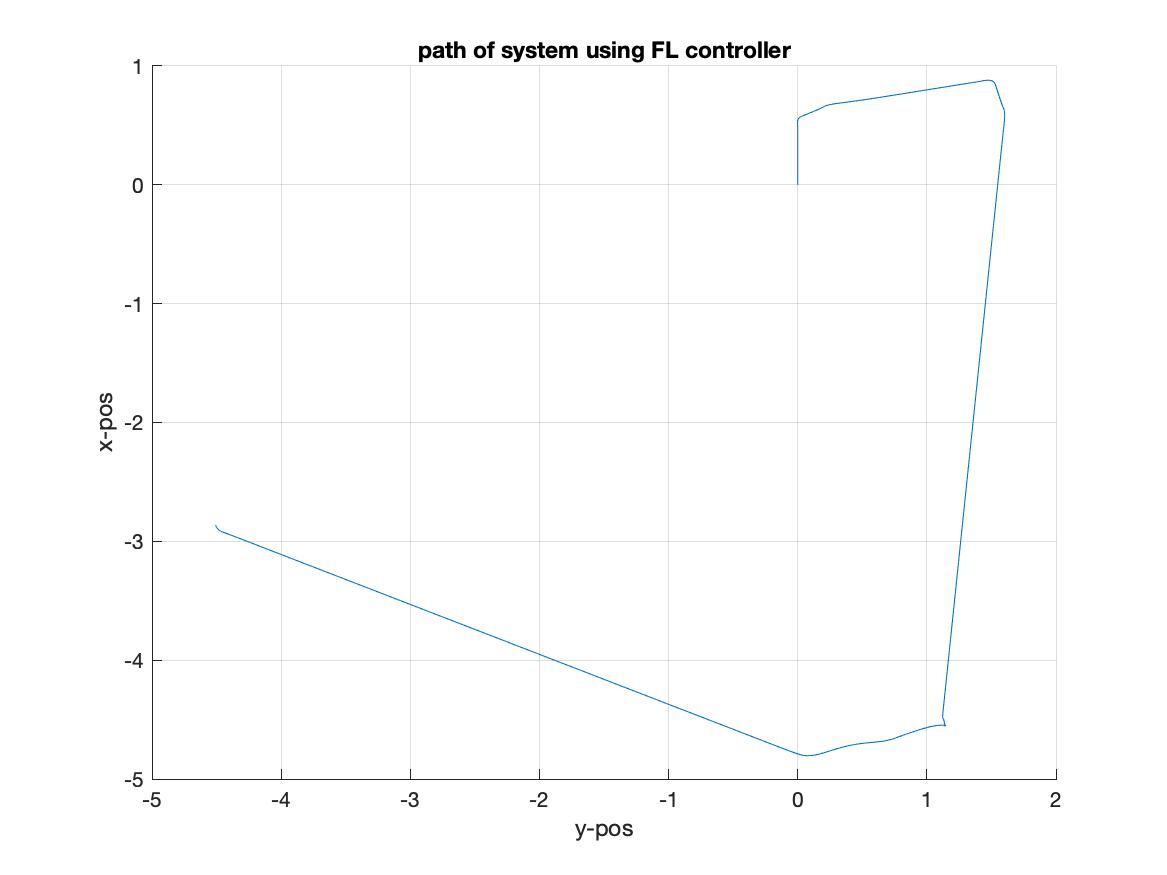
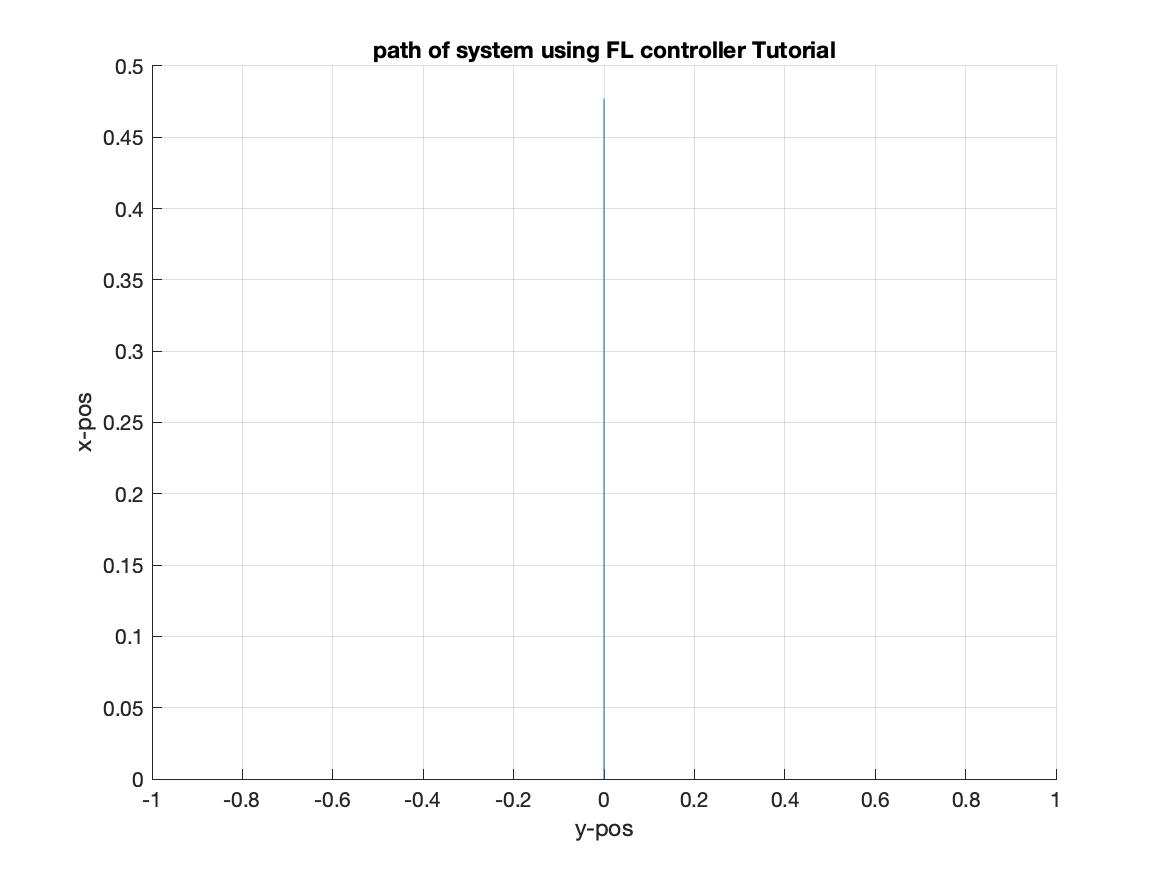
Improved

diff --git a/Assignment/evaluate_nn_robot.m b/Assignment/evaluate_nn_robot.m
@@ -65,14 +65,14 @@ obstacleMatrix = zeros(canvasSize_horizontal / stepSize_canvas, canvasSize_verti
 timeSteps_total = simulationTime_total/stepSize_time;
 state = state_initial;
 time = 0;
-robot = readfis("robot.fis");
-NeuralParameters  = [0,0,-1.4,1.2,1.25,-1];
+NeuralParametersTut  = [0.2,0.2,-1,1.2,1.25,-0.8];
+NeuralParametersImp = [0.3,0.3,-0.5,1,1,-0.5];
 %% 
 % Run simulation
 for timeStep = 1:timeSteps_total
     sensorOut = Sensor(state(timeStep,19), state(timeStep,20),state(timeStep,24), obstacleMatrix);
     disp(sensorOut);
-    [voltage_left, voltage_right] = NeuralController(sensorOut(1),sensorOut(2), NeuralParameters);
+    [voltage_left, voltage_right] = NeuralControllerImproved(sensorOut(1),sensorOut(2), NeuralParametersTut);
     disp([voltage_left,voltage_right]);
     voltages = [voltage_left; voltage_left;voltage_right; voltage_right];
     % *-------------------------------------*
@@ -104,9 +104,13 @@ end
 fig_x_y = figure(2); hold on; grid on;
 xlabel("y-pos")
 ylabel("x-pos")
-title("path of system using neural controller");
+title("path of system using neural controller Improved");
+plot(wall_1(:,1), wall_1(:,2),'k-');
+plot(wall_2(:,1), wall_2(:,2),'k-'); 
+plot(wall_3(:,1), wall_3(:,2),'k-');
+plot(wall_4(:,1), wall_4(:,2),'k-');
 plot(state(:,20), state(:,19));
-saveas(fig_x_y, "x_y nn position.jpg");
+saveas(fig_x_y, "x_y nn position Improved.jpg");
 
 fig_x_pos = figure(3); hold on; grid on;
 xlabel("time (s)");

diff --git a/Assignment/evaluate_fl_robot.m b/Assignment/evaluate_fl_robot.m
@@ -67,13 +67,11 @@ obstacleMatrix = zeros(canvasSize_horizontal / stepSize_canvas, canvasSize_verti
 timeSteps_total = simulationTime_total/stepSize_time;
 state = state_initial;
 time = 0;
-robot = readfis("robot.fis");
-%% 
+robot = readfis("robot_2.fis"); %Improved
+% robot = readfis("robot_tutorial.fis"); %Tutorial
+%% s
 % Run simulation
 for timeStep = 1:timeSteps_total
-    state(1,20) = 4;
-    state(1,19) = 0;
-    state(1,24) = -pi/3;
     sensorIn = Sensor(state(timeStep,19), state(timeStep,20),state(timeStep,24), obstacleMatrix);
     disp(sensorIn);
     voltagesOut = round(evalfis(robot,sensorIn));
@@ -111,9 +109,17 @@ end
 fig_x_y = figure(2); hold on; grid on;
 xlabel("y-pos")
 ylabel("x-pos")
-title("path of system using FL controller");
+xlim([-5,5]);
+ylim([-5,5]);
+title("path of system using FL controller Improved");
 plot(state(:,20), state(:,19));
-saveas(fig_x_y, "x_y fl position.jpg");
+plot(wall_1(:,1), wall_1(:,2),'k-');
+plot(wall_2(:,1), wall_2(:,2),'k-'); 
+plot(wall_3(:,1), wall_3(:,2),'k-');
+plot(wall_4(:,1), wall_4(:,2),'k-');
+plot(wall_5(:,1), wall_5(:,2),'k-');
+plot(wall_6(:,1), wall_6(:,2),'k-');
+saveas(fig_x_y, "x_y fl position Improved.jpg");
 
 fig_x_pos = figure(3); hold on; grid on;
 xlabel("time (s)");

diff --git a/Assignment/NeuralControllerImproved.m b/Assignment/NeuralControllerImproved.m
@@ -1,0 +1,20 @@
+function [voltage_left,voltage_right] = NeuralControllerImproved(sensor_left,sensor_right,params)
+T1 = params(1);
+T2 = params(2);
+w1 = params(3);
+w2 = params(4);
+w3 = params(5);
+w4 = params(6);
+
+if((sensor_left*w1 + sensor_right*w3) > T1)
+    voltage_left = 6;
+else
+    voltage_left = -6;
+end
+if((sensor_left*w2 + sensor_right*w4) > T2)
+    voltage_right = 6;
+else
+    voltage_right = -6;
+end
+end
+

diff --git a/Assignment/task_2_opt.m b/Assignment/task_2_opt.m
@@ -30,7 +30,7 @@ alpha = 0.1;
 plot(checkpoints(:,2), checkpoints(:,1),'k--d');
 xlim([-5 5])
 ylim([-5 5])
-obstacle_avoidance = readfis("robot.fis");
+obstacle_avoidance = readfis("robot_2.fis");
 path_planning = readfis("turning_angle_fl_new.fis");
 % weights = readfis("f_w.fis");
 voltagesOut = [0 0];
